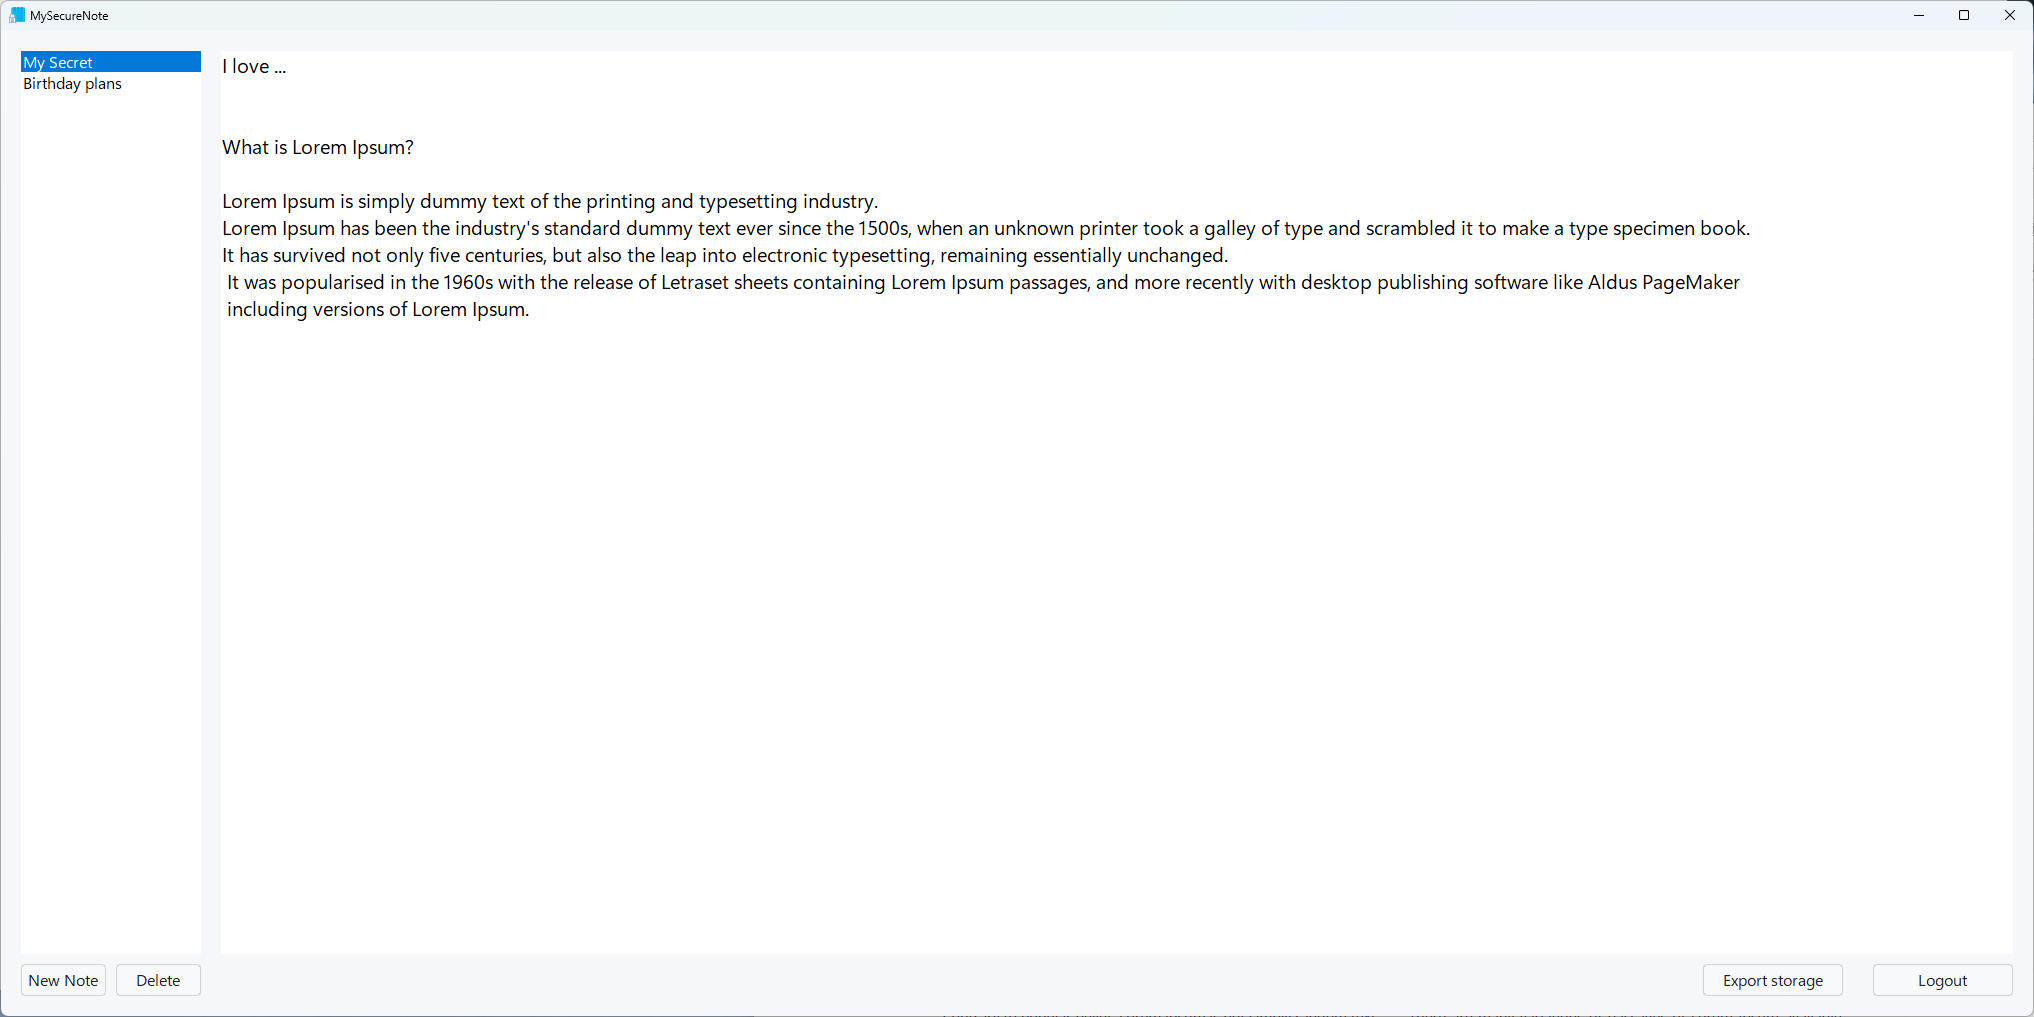
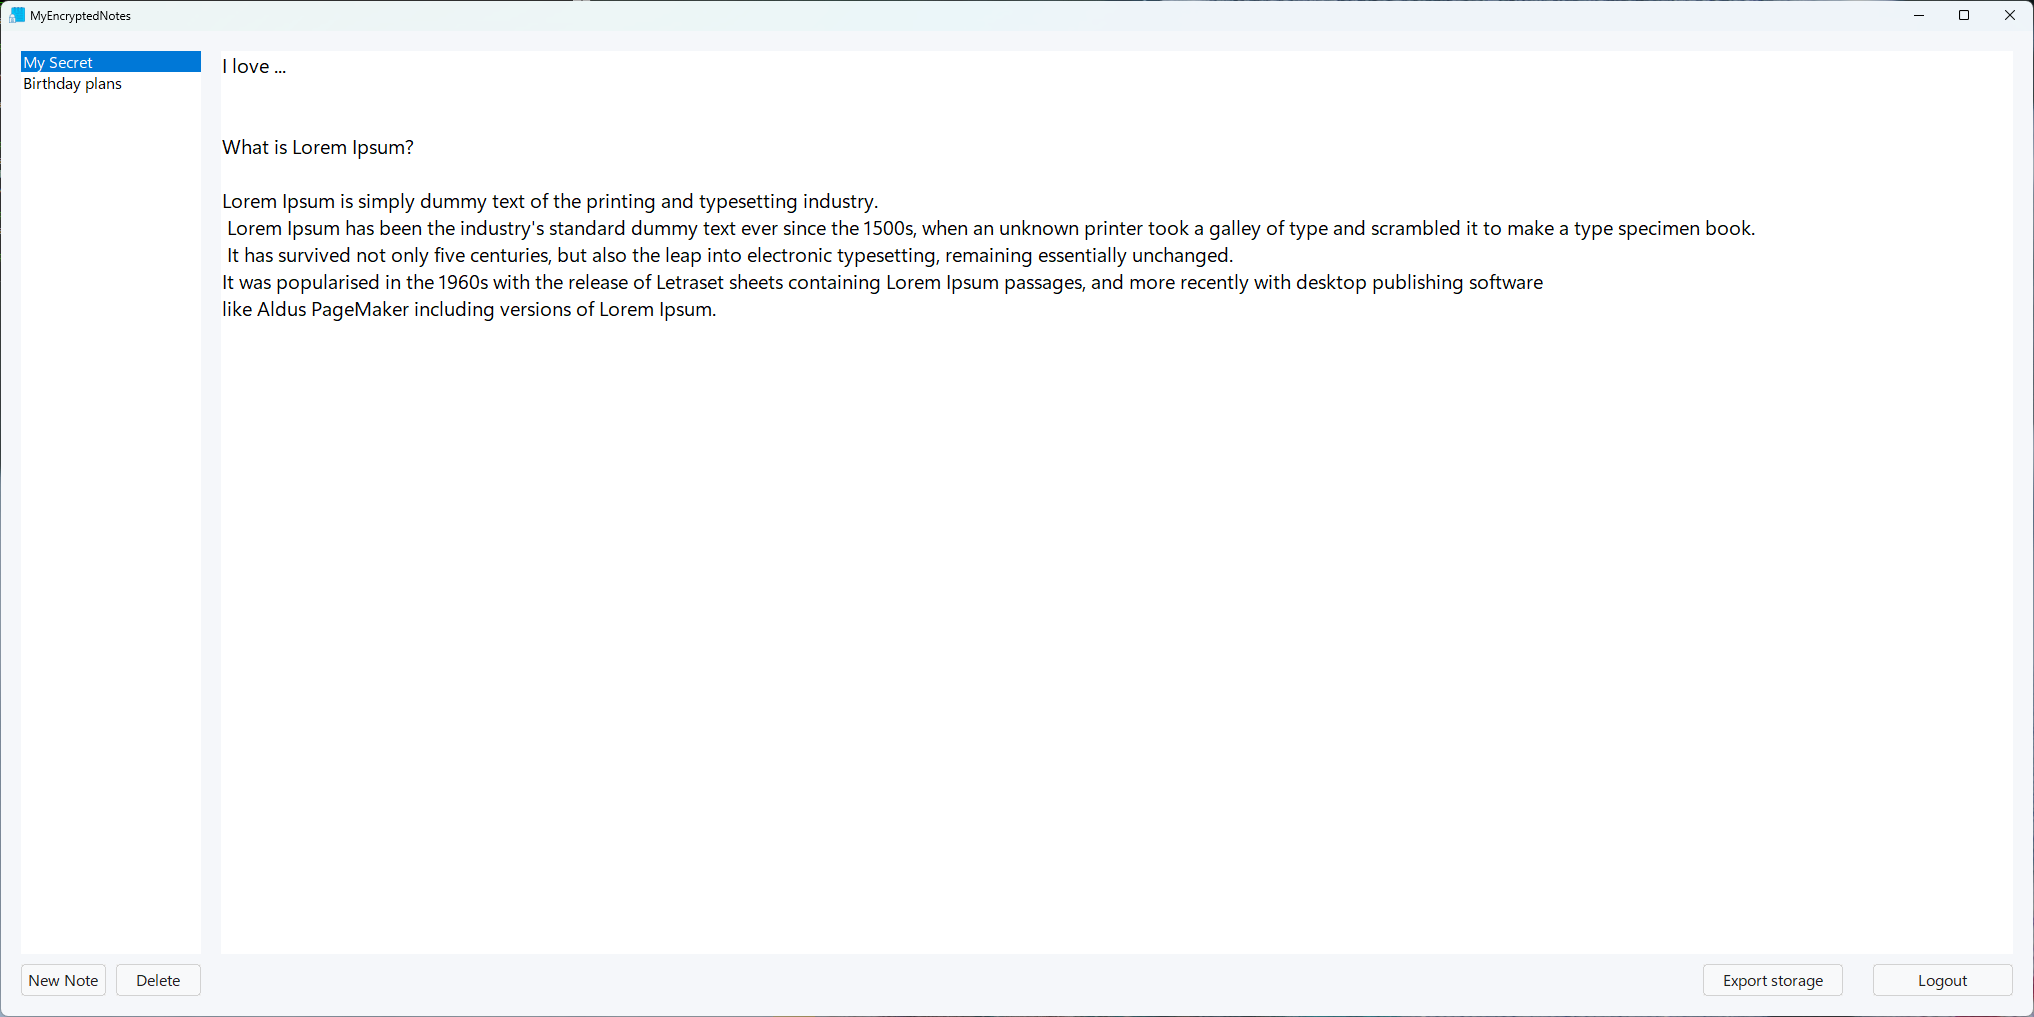
rename app

Changed region(s): [[0.0929, 0.2134, 0.8673, 0.3353], [0.9912, 0.9754, 1.0, 1.0], [0.031, 0.0, 0.0619, 0.0305]]

diff --git a/main.c b/main.c
@@ -195,7 +195,7 @@ void InitStoragePath(void)
     // Get %LOCALAPPDATA%
     if (SUCCEEDED(SHGetFolderPathW(NULL, CSIDL_LOCAL_APPDATA, NULL, 0, gDataDirW)))
     {
-        wcscat_s(gDataDirW, MAX_PATH, L"\\EncSecureNote");
+        wcscat_s(gDataDirW, MAX_PATH, L"\\MyEncryptedNotes");
         CreateDirectoryW(gDataDirW, NULL);
 
         // Convert UTF-16 → UTF-8 once
@@ -219,7 +219,7 @@ int WINAPI wWinMain(HINSTANCE hInstance, HINSTANCE hPrevInstance, PWSTR pCmdLine
         return 1;
     }
     
-    const wchar_t CLASS_NAME[] = L"EncSecureNoteWindow";
+    const wchar_t CLASS_NAME[] = L"MyEncryptedNotesWindow";
 
     WNDCLASSEX wc = {0};
     wc.cbSize = sizeof(WNDCLASSEX);
@@ -242,7 +242,7 @@ int WINAPI wWinMain(HINSTANCE hInstance, HINSTANCE hPrevInstance, PWSTR pCmdLine
     RegisterClassEx(&wc);
 
     HWND hwnd = CreateWindowEx(
-        0, CLASS_NAME, L"EncSecureNote",
+        0, CLASS_NAME, L"MyEncryptedNotes",
         WS_OVERLAPPEDWINDOW,
         CW_USEDEFAULT, CW_USEDEFAULT, 2048, 1024,
         NULL, NULL, hInstance, NULL);
@@ -877,7 +877,7 @@ void ShowLoginUI(HWND hwnd)
     const int editHeight = 28;
     const int spacing = 10;
 
-    hTitleLabel = CreateWindow(L"static", L"EncSecureNote",
+    hTitleLabel = CreateWindow(L"static", L"MyEncryptedNotes",
         WS_CHILD | WS_VISIBLE | SS_CENTER,
         centerX - 150, centerY - 160, 300, 40,
         hwnd, NULL, NULL, NULL);

diff --git a/core.c b/core.c
@@ -686,7 +686,7 @@ char* MakeSecureNotesZipFilename(void)
     randombytes_buf(&rnd, sizeof(rnd));
 
     char buf[80];
-    int n = snprintf(buf, sizeof(buf), "EncSecureNote_%llu_%u.zip",
+    int n = snprintf(buf, sizeof(buf), "MyEncryptedNotes_%llu_%u.zip",
                      (unsigned long long)ts, rnd);
     if (n < 0) return NULL;
 
